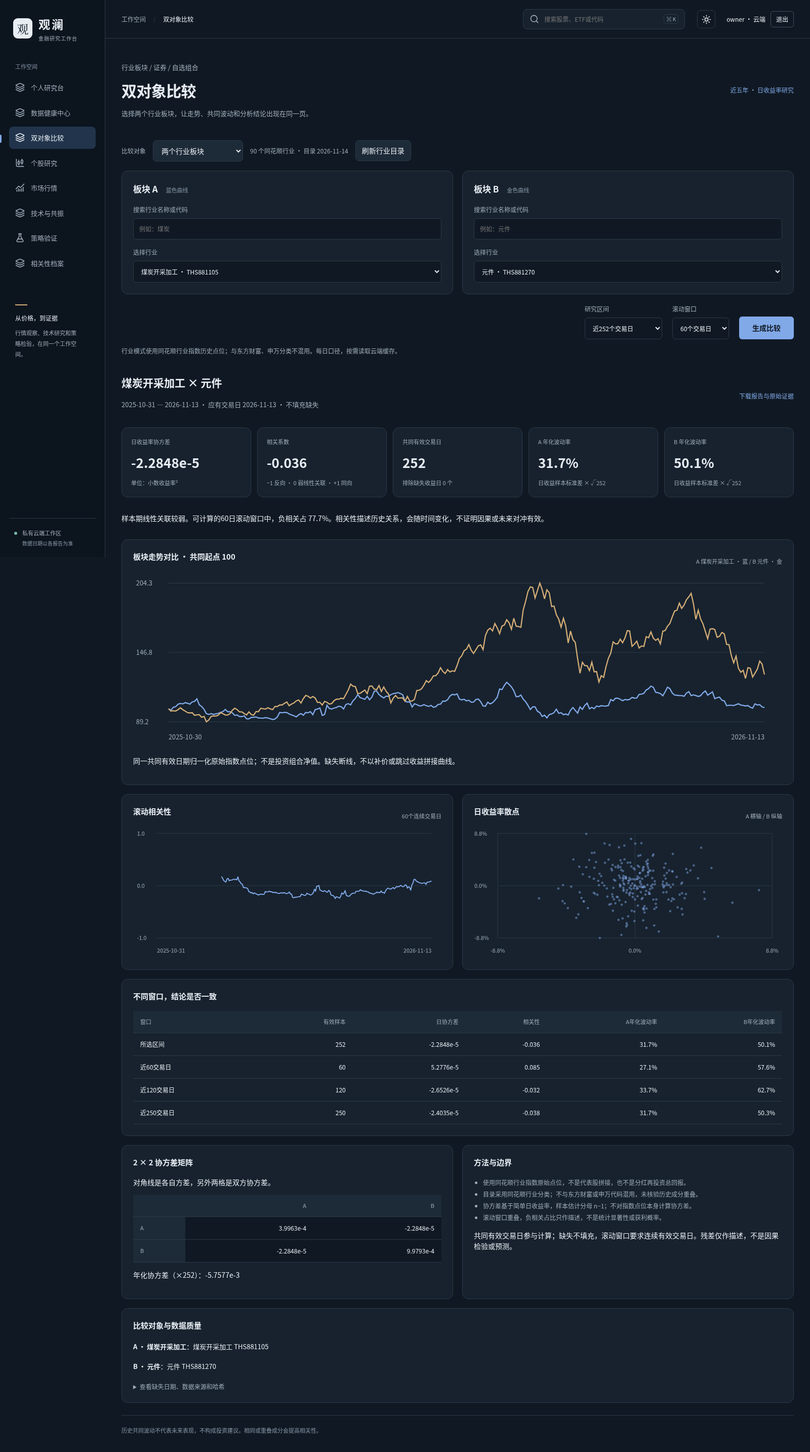
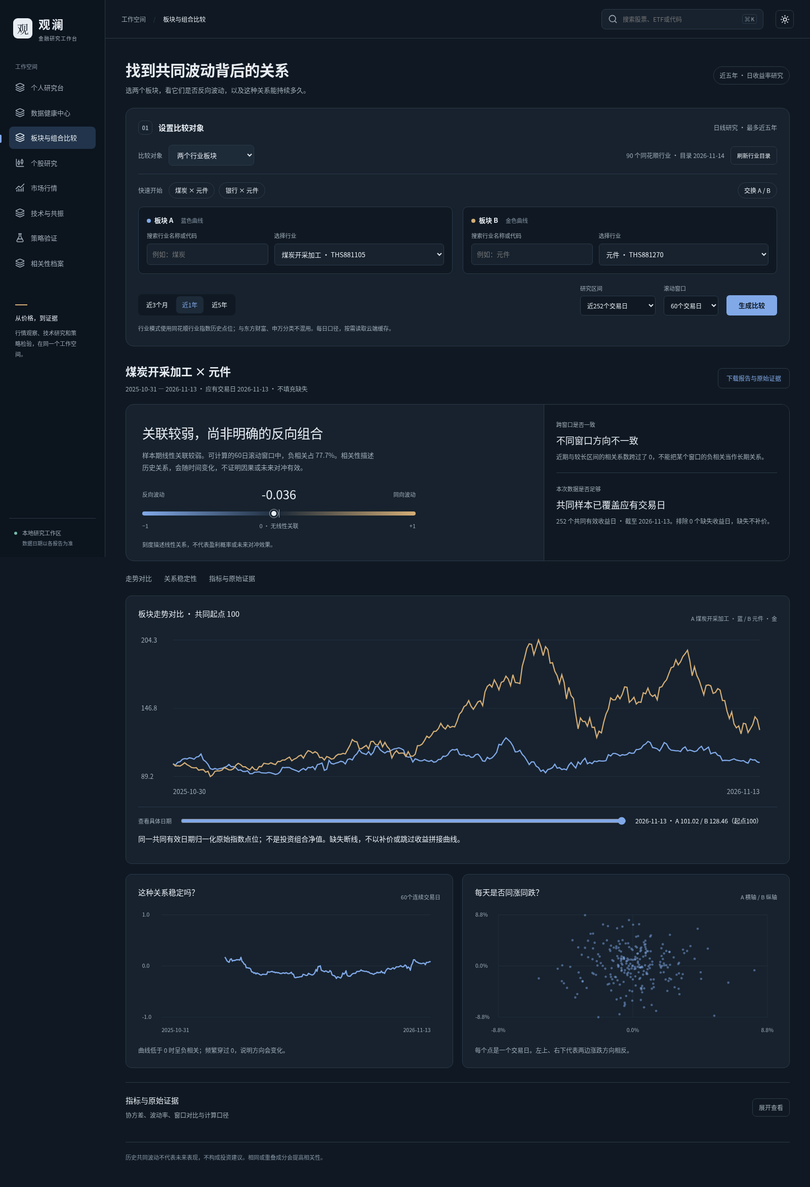
Redesign comparison workspace around conclusions and progressive evidence

diff --git a/app/static/compare/compare.js b/app/static/compare/compare.js
@@ -3,17 +3,25 @@ for(const side of ['left','right']){const el=document.createElement('section');e
 const draw=()=>{$(side+'-members').innerHTML=groups[side].map((x,i)=>`<button type="button" data-remove="${i}" aria-label="移除${esc(x.name)}">${esc(x.name)}<small>${esc(x.symbol)} ×</small></button>`).join('')||'<span class="subtle">尚未选择证券</span>';};$(side+'-members').onclick=e=>{const b=e.target.closest('[data-remove]');if(!b||busy)return;groups[side].splice(Number(b.dataset.remove),1);if($(side+'-mode').value!=='single'){$(side+'-mode').value='custom';$(side+'-name').value='';}draw();};$(side+'-mode').onchange=()=>{const preset=presets.find(p=>p.id===$(side+'-mode').value);groups[side]=preset?[...preset.members]:[];$(side+'-name').value=preset?preset.name:'';draw();};let timer,seq=0;$(side+'-query').oninput=()=>{clearTimeout(timer);const generation=++seq;const query=$(side+'-query').value.trim();if(!query){$(side+'-results').hidden=true;return;}timer=setTimeout(async()=>{try{const d=await api('/api/securities/search?q='+encodeURIComponent(query)+'&limit=8');if(generation!==seq)return;const box=$(side+'-results');box.replaceChildren();box.hidden=false;for(const x of d.items){const button=document.createElement('button');button.type='button';button.innerHTML=`<span>${esc(x.name)}</span><small>${esc(x.symbol)}</small>`;button.onclick=()=>{if(busy)return;if($(side+'-mode').value==='single'){groups[side]=[x];$(side+'-name').value=x.name;}else{if(groups[side].length>=10){message('每组最多10只证券');return;}if(!groups[side].some(y=>y.symbol===x.symbol))groups[side].push(x);if(['coal','components'].includes($(side+'-mode').value)){$(side+'-mode').value='custom';$(side+'-name').value='';}}$(side+'-query').value='';box.hidden=true;draw();};box.append(button);}if(!d.items.length)box.textContent='未找到证券';}catch(e){message(e.message);}},220);};$(side+'-query').onkeydown=e=>{if(e.key==='Escape')$(side+'-results').hidden=true;if(e.key==='ArrowDown'){$(side+'-results').querySelector('button')?.focus();e.preventDefault();}if(e.key==='Enter'){e.preventDefault();$(side+'-results').querySelector('button')?.click();}};draw();}
 
 const industryMode=()=>$('comparison-kind').value==='industry';
-function invalidate(){ $('compare-report').hidden=true; }
+function invalidate(){ $('compare-report').hidden=true;$('compare-empty').hidden=false; }
 function drawIndustries(side,preferred){const query=$('industry-'+side+'-query').value.trim().toLowerCase(),select=$('industry-'+side),previous=preferred||select.value;const list=industries.filter(x=>x.name.toLowerCase().includes(query)||x.code.toLowerCase().includes(query));select.innerHTML=list.map(x=>`<option value="${esc(x.code)}">${esc(x.name)} · ${esc(x.code)}</option>`).join('');if(list.some(x=>x.code===previous))select.value=previous;}
 for(const side of ['left','right'])$('industry-'+side+'-query').oninput=()=>{drawIndustries(side);invalidate();};
-$('comparison-kind').onchange=()=>{const on=industryMode();$('compare-run').disabled=on&&!industries.length;$('industry-selectors').hidden=!on;$('selectors').hidden=on;for(const side of ['left','right'])$('industry-'+side).required=on;$('selection-note').textContent=on?'行业模式使用同花顺行业指数历史点位；与东方财富、申万分类不混用。每日口径，按需读取云端缓存。':'单只证券或每组最多10只，组合固定等权。煤炭/元件代表股预设不是行业指数，请切换行业模式比较真实板块。';invalidate();};
+$('comparison-kind').onchange=()=>{const on=industryMode();$('quick-pairs').hidden=!on;$('compare-run').disabled=on&&!industries.length;$('industry-selectors').hidden=!on;$('selectors').hidden=on;for(const side of ['left','right'])$('industry-'+side).required=on;$('selection-note').textContent=on?'行业模式使用同花顺行业指数历史点位；与东方财富、申万分类不混用。每日口径，按需读取云端缓存。':'单只证券或每组最多10只，组合固定等权。煤炭/元件代表股预设不是行业指数，请切换行业模式比较真实板块。';invalidate();};
 $('compare-form').addEventListener('change',invalidate);
 async function loadIndustries(){if(catalogLoading)return;catalogLoading=true;$('industry-reload').disabled=true;if(industryMode())$('compare-run').disabled=true;try{const d=await api('/api/comparison/industries');industries=d.items;drawIndustries('left',$('industry-left').value||'THS881105');drawIndustries('right',$('industry-right').value||'THS881270');$('industry-catalog-note').textContent=`${d.total} 个同花顺行业 · 目录 ${d.date}${d.stale?' · 刷新失败，使用旧目录':''}`;message('');}catch(e){$('industry-catalog-note').textContent='行业目录暂不可用';message(e.message+'。可点击「刷新行业目录」重试，或切换「股票 / ETF / 自选组合」继续已有研究。');}finally{catalogLoading=false;$('industry-reload').disabled=false;$('compare-run').disabled=industryMode()&&!industries.length;}}$('industry-reload').onclick=loadIndustries;loadIndustries();
 
 function normalizedPlot(r){const points=r.normalized||[];$('normalized-panel').hidden=!points.length;if(!points.length)return;const values=points.flatMap(p=>[p.a,p.b]).filter(v=>v!=null);let min=Math.min(...values),max=Math.max(...values);if(max===min){max+=1;min-=1;}const w=1100,h=300,left=60,right=1070,top=20,bottom=255,x=i=>left+i/Math.max(1,points.length-1)*(right-left),y=v=>top+(max-v)/(max-min)*(bottom-top);let paths='';for(const [key,color] of [['a','var(--ui-accent)'],['b','var(--ui-gold)']]){let d='',active=false;points.forEach((p,i)=>{if(p[key]==null){active=false;return;}d+=(active?'L':'M')+x(i).toFixed(2)+','+y(p[key]).toFixed(2);active=true;});paths+=`<path d="${d}" fill="none" stroke="${color}" stroke-width="2"/>`;}$('normalized-legend').textContent=`A ${r.selection.left.name} · 蓝 / B ${r.selection.right.name} · 金`;$('normalized-chart').innerHTML=`<svg viewBox="0 0 ${w} ${h}" role="img" aria-label="两板块同起点指数走势">${[min,(min+max)/2,max].map(v=>`<line class="grid" x1="${left}" x2="${right}" y1="${y(v)}" y2="${y(v)}"/><text x="5" y="${y(v)+4}">${v.toFixed(1)}</text>`).join('')}${paths}<text x="${left}" y="285">${esc(points[0].date)}</text><text x="${right}" y="285" text-anchor="end">${esc(points.at(-1).date)}</text></svg>`;}
 
 function plots(r){const w=620,h=265,left=48,right=600,top=15,bottom=225;let path='',active=false;const points=r.rolling;points.forEach((p,i)=>{if(p.value==null){active=false;return;}const x=left+i/Math.max(1,points.length-1)*(right-left),y=top+(1-p.value)/2*(bottom-top);path+=(active?'L':'M')+x.toFixed(2)+','+y.toFixed(2);active=true;});$('rolling-chart').innerHTML=`<svg viewBox="0 0 ${w} ${h}" role="img" aria-label="滚动相关性曲线">${[-1,0,1].map(v=>{const y=top+(1-v)/2*(bottom-top);return `<line class="grid" x1="${left}" y1="${y}" x2="${right}" y2="${y}"/><text x="8" y="${y+4}">${v.toFixed(1)}</text>`;}).join('')}<path class="series" d="${path}"/><text x="${left}" y="255">${esc(points[0]?.date||'')}</text><text x="${right}" y="255" text-anchor="end">${esc(points.at(-1)?.date||'')}</text>${path?'':'<text x="130" y="120">连续有效样本不足，暂不绘制滚动曲线</text>'}</svg>`;const data=r.observations.filter(x=>x.a!=null&&x.b!=null),bound=Math.max(.01,...data.flatMap(p=>[Math.abs(p.a),Math.abs(p.b)])),px=v=>left+(v/bound+1)/2*(right-left),py=v=>top+(1-v/bound)/2*(bottom-top);$('scatter-chart').innerHTML=`<svg viewBox="0 0 ${w} ${h}" role="img" aria-label="两组日收益率散点">${[-bound,0,bound].map(v=>`<line class="grid" x1="${px(v)}" y1="${top}" x2="${px(v)}" y2="${bottom}"/><line class="grid" x1="${left}" y1="${py(v)}" x2="${right}" y2="${py(v)}"/><text x="${px(v)}" y="255" text-anchor="middle">${(v*100).toFixed(1)}%</text><text x="1" y="${py(v)+4}">${(v*100).toFixed(1)}%</text>`).join('')}${data.map(p=>`<circle cx="${px(p.a)}" cy="${py(p.b)}" r="2.4"><title>${esc(p.date)} A ${(p.a*100).toFixed(2)}% / B ${(p.b*100).toFixed(2)}%</title></circle>`).join('')}</svg>`;}
-function render(data){report=data;const r=data.result,m=r.metrics;$('compare-report').hidden=false;$('compare-report').classList.toggle('industry-report',r.selection.kind==='industry');$('residual-metric').hidden=r.selection.kind==='industry';$('vol-a').textContent=nf(m.volatility_a*100,1)+'%';$('vol-b').textContent=nf(m.volatility_b*100,1)+'%';normalizedPlot(r);$('report-title').textContent=r.selection.left.name+' × '+r.selection.right.name;$('report-range').textContent=`${m.start} — ${m.end} · 应有交易日 ${r.expected_end} · 不填充缺失`;$('report-download').href='/api/comparison/reports/'+data.id+'/download';$('cov-value').textContent=cov(m.covariance);$('corr-value').textContent=nf(m.correlation);$('residual-value').textContent=nf(m.residual_correlation);$('sample-value').textContent=m.n;$('excluded-value').textContent=`排除缺失收益日 ${r.missing.length} 个`;$('interpretation').textContent=r.interpretation;$('rolling-note').textContent=r.selection.rolling+'个连续交易日';plots(r);$('window-table').innerHTML=[{window:'所选区间',...m},...r.windows].map(x=>`<tr><td>${typeof x.window==='number'?'近'+x.window+'交易日':esc(x.window)}</td><td>${x.n}</td><td>${cov(x.covariance)}</td><td>${nf(x.correlation)}</td><td>${nf(x.residual_correlation)}</td><td>${nf(x.volatility_a*100,1)}%</td><td>${nf(x.volatility_b*100,1)}%</td></tr>`).join('');$('cov-matrix').innerHTML=`<tr><th></th><th>A</th><th>B</th></tr><tr><th>A</th><td>${cov(m.variance_a)}</td><td>${cov(m.covariance)}</td></tr><tr><th>B</th><td>${cov(m.covariance)}</td><td>${cov(m.variance_b)}</td></tr>`;$('annualized-note').textContent='年化协方差（×252）：'+cov(m.annualized_covariance);$('warnings').innerHTML=r.warnings.map(x=>`<li>${esc(x)}</li>`).join('');$('members-summary').innerHTML=['left','right'].map((side,i)=>`<p><b>${i?'B':'A'} · ${esc(r.selection[side].name)}</b>：${r.selection[side].symbols.map(s=>esc(r.quality.find(x=>x.symbol===s)?.name||s)+' '+esc(s)).join(' / ')}</p>`).join('');$('quality-detail').textContent=JSON.stringify({source:r.adjustment,fetched_at:r.source_fetched_at,data_hash:r.data_hash,securities:r.quality,missing:r.missing},null,2);}
-$('compare-form').onsubmit=async e=>{e.preventDefault();if(busy)return;if(!industryMode()&&(!groups.left.length||!groups.right.length)){message('请先为A和B分别选择至少一只证券');return;}busy=true;$('compare-report').hidden=true;document.querySelectorAll('#compare-form input,#compare-form select,#compare-form button').forEach(x=>x.disabled=true);message('正在读取并校验历史日线、对齐交易日…首次生成可能需要一些时间。');try{const body=industryMode()?{left:$('industry-left').value,right:$('industry-right').value,lookback:Number($('lookback').value),rolling:Number($('rolling').value)}:{left:{name:$('left-name').value,symbols:groups.left.map(x=>x.symbol)},right:{name:$('right-name').value,symbols:groups.right.map(x=>x.symbol)},lookback:Number($('lookback').value),rolling:Number($('rolling').value)};render(await api(industryMode()?'/api/comparison/industries/run':'/api/comparison/run',{method:'POST',headers:{'Content-Type':'application/json','x-workbench-action':'local-refresh'},body:JSON.stringify(body)}));message('');}catch(e){message(e.message);}finally{busy=false;document.querySelectorAll('#compare-form input,#compare-form select,#compare-form button').forEach(x=>x.disabled=false);}};
+function render(data){report=data;const r=data.result,m=r.metrics;verdict(r);$('compare-report').hidden=false;$('compare-report').classList.toggle('industry-report',r.selection.kind==='industry');$('residual-metric').hidden=r.selection.kind==='industry';$('vol-a').textContent=nf(m.volatility_a*100,1)+'%';$('vol-b').textContent=nf(m.volatility_b*100,1)+'%';normalizedPlot(r);inspectChart(r);$('report-title').textContent=r.selection.left.name+' × '+r.selection.right.name;$('report-range').textContent=`${m.start} — ${m.end} · 应有交易日 ${r.expected_end} · 不填充缺失`;$('report-download').href='/api/comparison/reports/'+data.id+'/download';$('cov-value').textContent=cov(m.covariance);$('corr-value').textContent=nf(m.correlation);$('residual-value').textContent=nf(m.residual_correlation);$('sample-value').textContent=m.n;$('excluded-value').textContent=`排除缺失收益日 ${r.missing.length} 个`;$('interpretation').textContent=r.interpretation;$('rolling-note').textContent=r.selection.rolling+'个连续交易日';plots(r);$('window-table').innerHTML=[{window:'所选区间',...m},...r.windows].map(x=>`<tr><td>${typeof x.window==='number'?'近'+x.window+'交易日':esc(x.window)}</td><td>${x.n}</td><td>${cov(x.covariance)}</td><td>${nf(x.correlation)}</td><td>${nf(x.residual_correlation)}</td><td>${nf(x.volatility_a*100,1)}%</td><td>${nf(x.volatility_b*100,1)}%</td></tr>`).join('');$('cov-matrix').innerHTML=`<tr><th></th><th>A</th><th>B</th></tr><tr><th>A</th><td>${cov(m.variance_a)}</td><td>${cov(m.covariance)}</td></tr><tr><th>B</th><td>${cov(m.covariance)}</td><td>${cov(m.variance_b)}</td></tr>`;$('annualized-note').textContent='年化协方差（×252）：'+cov(m.annualized_covariance);$('warnings').innerHTML=r.warnings.map(x=>`<li>${esc(x)}</li>`).join('');$('members-summary').innerHTML=['left','right'].map((side,i)=>`<p><b>${i?'B':'A'} · ${esc(r.selection[side].name)}</b>：${r.selection[side].symbols.map(s=>esc(r.quality.find(x=>x.symbol===s)?.name||s)+' '+esc(s)).join(' / ')}</p>`).join('');$('quality-detail').textContent=JSON.stringify({source:r.adjustment,fetched_at:r.source_fetched_at,data_hash:r.data_hash,securities:r.quality,missing:r.missing},null,2);}
+$('compare-form').onsubmit=async e=>{e.preventDefault();if(busy)return;if(!industryMode()&&(!groups.left.length||!groups.right.length)){message('请先为A和B分别选择至少一只证券');return;}busy=true;$('compare-message').dataset.busy='true';$('compare-form').setAttribute('aria-busy','true');$('compare-run').textContent='正在分析…';$('compare-empty').hidden=true;$('compare-report').hidden=true;document.querySelectorAll('#compare-form input,#compare-form select,#compare-form button').forEach(x=>x.disabled=true);message('正在读取并校验历史日线、对齐交易日…首次生成可能需要一些时间。');try{const body=industryMode()?{left:$('industry-left').value,right:$('industry-right').value,lookback:Number($('lookback').value),rolling:Number($('rolling').value)}:{left:{name:$('left-name').value,symbols:groups.left.map(x=>x.symbol)},right:{name:$('right-name').value,symbols:groups.right.map(x=>x.symbol)},lookback:Number($('lookback').value),rolling:Number($('rolling').value)};render(await api(industryMode()?'/api/comparison/industries/run':'/api/comparison/run',{method:'POST',headers:{'Content-Type':'application/json','x-workbench-action':'local-refresh'},body:JSON.stringify(body)}));message('');}catch(e){message(e.message);$('compare-empty').hidden=false;}finally{busy=false;$('compare-message').dataset.busy='false';$('compare-form').setAttribute('aria-busy','false');$('compare-run').textContent='生成比较';document.querySelectorAll('#compare-form input,#compare-form select,#compare-form button').forEach(x=>x.disabled=false);}};
 api('/api/comparison/presets').then(d=>{presets=d.items;for(const [side,id]of [['left','coal'],['right','components']]){$(side+'-mode').value=id;$(side+'-mode').dispatchEvent(new Event('change'));}}).catch(e=>message(e.message));document.addEventListener('click',e=>{if(!e.target.closest('.search-wrap'))document.querySelectorAll('.search-results').forEach(x=>x.hidden=true);});
+document.querySelector('a[href="#evidence-details"]').onclick=()=>{$('evidence-details').open=true;};
+function syncWindowButtons(){document.querySelectorAll('[data-window]').forEach(b=>b.setAttribute('aria-pressed',String(b.dataset.window===$('lookback').value)));}
+document.querySelectorAll('[data-window]').forEach(b=>b.onclick=()=>{$('lookback').value=b.dataset.window;syncWindowButtons();invalidate();});$('lookback').addEventListener('change',syncWindowButtons);
+document.querySelectorAll('[data-pair]').forEach(b=>b.onclick=()=>{const a=industries.find(x=>b.dataset.pair==='bank'?x.name==='银行':x.code==='THS881105'),c=industries.find(x=>x.code==='THS881270');if(!a||!c){message('目录尚未就绪，请刷新行业目录后重试');return;}for(const [side,item]of [['left',a],['right',c]]){$('industry-'+side+'-query').value='';drawIndustries(side,item.code);}invalidate();});
+$('swap-industries').onclick=()=>{const a=$('industry-left').value,b=$('industry-right').value;for(const side of ['left','right'])$('industry-'+side+'-query').value='';drawIndustries('left',b);drawIndustries('right',a);invalidate();};
+function verdict(r){const m=r.metrics,c=m.correlation,same=JSON.stringify(r.selection.left.symbols)===JSON.stringify(r.selection.right.symbols);$('verdict-title').textContent=same?'同一对象，不构成分散证据':c==null?'样本无法判断线性关系':c<-.3?'本段历史中，整体反向波动':c<.3?'关联较弱，尚非明确的反向组合':'本段历史中，整体同向波动';$('relation-number').textContent=c==null?'不可定义':c.toFixed(3);$('relation-marker').hidden=c==null;$('relation-marker').style.left=((Math.max(-1,Math.min(1,c??0))+1)*50)+'%';const correlations=[c,...r.windows.map(x=>x.correlation)].filter(x=>x!=null),flip=correlations.some(x=>x<0)&&correlations.some(x=>x>0);$('stability-title').textContent=same?'两边相同，无独立比较意义':correlations.length<2?'窗口不足，暂不判断':flip?'不同窗口方向不一致':correlations.every(x=>x<0)?'已展示窗口均为负相关':'未形成一致负相关';$('stability-detail').textContent=flip?'近期与较长区间的相关系数跨过了 0，不能把某个窗口的负相关当作长期关系。':'窗口相互重叠，不是独立检验；历史方向一致也不保证未来持续。';const stale=m.end!==r.expected_end,refresh=r.warnings.some(x=>/失败|旧目录/.test(x));$('quality-title').textContent=stale?'数据日期落后，需关注':refresh?'使用缓存，刷新需关注':r.missing.length?'存在缺失，已剔除':'共同样本已覆盖应有交易日';$('quality-summary').textContent=`${m.n} 个共同有效收益日 · 截至 ${m.end}。排除 ${r.missing.length} 个缺失收益日，缺失不补价。`;$('compare-empty').hidden=true;}
+function inspectChart(r){const points=r.normalized||[];if(!points.length)return;const slider=$('chart-date');slider.max=points.length-1;slider.value=points.length-1;const show=()=>{const p=points[Number(slider.value)];$('chart-readout').textContent=`${p.date}  ·  A ${p.a==null?'缺失':p.a.toFixed(2)}  /  B ${p.b==null?'缺失':p.b.toFixed(2)}（起点100）`;slider.setAttribute('aria-valuetext',$('chart-readout').textContent);const svg=$('normalized-chart').querySelector('svg');let line=svg.querySelector('.date-cursor');if(!line){line=document.createElementNS('http://www.w3.org/2000/svg','line');line.classList.add('date-cursor');line.setAttribute('y1','20');line.setAttribute('y2','255');line.setAttribute('stroke','var(--ui-muted)');line.setAttribute('stroke-dasharray','4 4');svg.append(line);}const x=60+Number(slider.value)/Math.max(1,points.length-1)*1010;line.setAttribute('x1',x);line.setAttribute('x2',x);};slider.oninput=show;show();$('normalized-chart').onpointermove=e=>{const svg=$('normalized-chart').querySelector('svg'),rect=svg.getBoundingClientRect();const x=(e.clientX-rect.left)/rect.width*1100;slider.value=Math.round(Math.max(0,Math.min(1,(x-60)/1010))*(points.length-1));show();};}
+
 })();

diff --git a/app/static/compare/compare.css b/app/static/compare/compare.css
@@ -1,2 +1,8 @@
 .compare-workspace{padding:108px 32px 36px;margin-left:208px;max-width:1700px;color:var(--ui-text)}.compare-heading,.report-heading,.run-bar,.section-title{display:flex;justify-content:space-between;align-items:center;gap:20px}.compare-heading{margin-bottom:28px}.compare-heading h1{font-size:30px;margin:6px 0 12px}.compare-heading p,.report-heading p,footer{color:var(--ui-muted);font-size:13px;line-height:1.8}.scope-tag{font-size:12px;color:var(--ui-accent);white-space:nowrap}.selection-grid,.chart-grid{display:grid;grid-template-columns:1fr 1fr;gap:18px}.selector,.compare-panel,.metric-grid article{background:var(--ui-panel);border:1px solid var(--ui-border);border-radius:12px;padding:22px}.selector h2{font-size:17px;margin:0 0 20px}.selector label{display:block;font-size:12px;color:var(--ui-muted);margin-top:16px}.selector input,.selector select,.run-bar select{display:block;width:100%;margin-top:8px;background:var(--ui-bg);color:var(--ui-text);border:1px solid var(--ui-border);border-radius:6px;padding:11px;font:inherit;min-width:0}.search-wrap{position:relative}.search-results{position:absolute;z-index:8;top:100%;width:100%;background:var(--ui-panel);border:1px solid var(--ui-border);box-shadow:0 14px 30px #0005;max-height:260px;overflow:auto}.search-results button{display:flex;justify-content:space-between;width:100%;border:0;border-radius:0;background:transparent;color:var(--ui-text);padding:12px;cursor:pointer}.search-results button:hover{background:var(--ui-bg)}.members{display:flex;flex-wrap:wrap;gap:8px;margin-top:18px;min-height:36px}.members button{background:var(--ui-bg);color:var(--ui-text);border:1px solid var(--ui-border);border-radius:5px;padding:7px 9px;cursor:pointer;font-size:12px}.members small{color:var(--ui-muted);margin-left:5px}.run-bar{justify-content:flex-end;margin-top:20px;align-items:flex-end}.run-bar label{font-size:12px;color:var(--ui-muted)}#compare-run{background:var(--ui-accent);color:var(--ui-bg);padding:12px 26px;border:0;border-radius:6px;cursor:pointer;font-weight:600}button:disabled{opacity:.5;cursor:wait}.form-note{font-size:12px;line-height:1.8;color:var(--ui-muted)}#compare-message{padding:16px;border:1px solid var(--ui-gold);border-radius:8px;color:var(--ui-gold);margin:24px 0;font-size:13px}.report-heading{margin:36px 0 20px}.report-heading h2{font-size:21px}.report-heading a{color:var(--ui-accent);font-size:12px}.metric-grid{display:grid;grid-template-columns:repeat(4,1fr);gap:12px}.metric-grid article{padding:18px}.metric-grid span,.metric-grid small{display:block;color:var(--ui-muted);font-size:11px;line-height:1.7}.metric-grid strong{display:block;font-size:26px;font-variant-numeric:tabular-nums;margin:12px 0}.interpretation{line-height:1.9;font-size:14px;padding:14px 0}.compare-panel{margin-bottom:18px;min-width:0}.compare-panel h3{font-size:15px;margin:0 0 18px}.section-title span{font-size:11px;color:var(--ui-muted)}.plot svg{width:100%;height:auto;display:block}.plot text{fill:var(--ui-muted);font-size:11px}.plot .grid{stroke:var(--ui-border)}.plot .series{stroke:var(--ui-accent);fill:none;stroke-width:2}.plot circle{fill:var(--ui-accent);opacity:.48}.table-scroll{overflow:auto}table{width:100%;border-collapse:collapse;font-variant-numeric:tabular-nums}th,td{text-align:right;padding:12px 10px;border-bottom:1px solid var(--ui-border);font-size:12px;white-space:nowrap}th{font-weight:400;color:var(--ui-muted)}th:first-child,td:first-child{text-align:left}#cov-matrix td{background:var(--ui-bg)}#warnings{padding-left:18px;font-size:12px;line-height:1.9;color:var(--ui-muted)}#members-summary{font-size:13px;line-height:2}details{font-size:12px;color:var(--ui-muted);margin-top:18px}pre{white-space:pre-wrap;overflow-wrap:anywhere;max-height:350px;overflow:auto}footer{margin-top:28px}input:focus-visible,button:focus-visible,select:focus-visible{outline:2px solid var(--ui-accent);outline-offset:3px}@media(max-width:1150px){.compare-workspace{margin-left:176px;padding-left:20px;padding-right:20px}.metric-grid{grid-template-columns:1fr 1fr}}@media(max-width:760px){.compare-workspace{margin-left:0;padding:88px 16px 24px}.selection-grid,.chart-grid{grid-template-columns:1fr}.compare-heading,.report-heading{align-items:flex-start;flex-direction:column;gap:6px}.run-bar{flex-wrap:wrap;justify-content:stretch}.run-bar label{flex:1;min-width:130px}#compare-run{width:100%}.selector,.compare-panel{padding:18px}.metric-grid strong{font-size:21px}.metric-grid article{padding:13px}.scope-tag{white-space:normal}}
 [hidden]{display:none!important}.comparison-mode{display:flex;align-items:center;gap:14px;margin-bottom:18px;flex-wrap:wrap}.comparison-mode label,.comparison-mode span{font-size:12px;color:var(--ui-muted)}.selector h2 small{font-size:11px;color:var(--ui-subtle);font-weight:400;margin-left:12px}.industry-report .table-scroll th:nth-child(5),.industry-report .table-scroll td:nth-child(5){display:none}.metric-grid{grid-template-columns:repeat(auto-fit,minmax(165px,1fr))}#normalized-panel .section-title{flex-wrap:wrap}.plot .series{stroke-linejoin:round}@media(max-width:760px){.metric-grid{grid-template-columns:1fr 1fr}.comparison-mode{align-items:flex-start}.comparison-mode span{width:100%}}
+/* Correlation lab: decision first, calculation evidence on demand. */
+.terminal-app .compare-workspace{max-width:1440px;margin-top:76px;padding:32px 40px 48px;font-size:14px}.compare-heading{margin-bottom:24px}.compare-heading h1{font-size:30px;letter-spacing:-.02em;font-weight:600;margin:8px 0}.compare-heading p{margin:0}.eyebrow{font-size:11px!important;letter-spacing:.12em;color:var(--ui-muted);font-weight:600}.scope-tag{border:1px solid var(--ui-border);border-radius:24px;padding:8px 12px;color:var(--ui-muted)}#compare-form{background:var(--ui-panel);border:1px solid var(--ui-border);border-radius:16px;padding:24px}.form-heading{display:flex;justify-content:space-between;align-items:center;margin-bottom:20px}.form-heading b{display:flex;align-items:center;gap:12px;font-size:15px}.form-heading>span{color:var(--ui-muted);font-size:12px}.step-number{display:inline-grid;place-items:center;width:28px;height:28px;border:1px solid var(--ui-border);border-radius:8px;color:var(--ui-muted);font-size:11px}.comparison-mode{padding-bottom:16px;border-bottom:1px solid var(--ui-border);gap:12px;margin-bottom:16px}.comparison-mode select{font-size:13px}.comparison-mode span{margin-left:auto}.comparison-mode button{font-size:11px;background:transparent}.quick-pairs{display:flex;gap:8px;align-items:center;margin-bottom:16px;flex-wrap:wrap}.quick-pairs>span{font-size:12px;color:var(--ui-muted);margin-right:4px}.quick-pairs button{font-size:12px;padding:6px 12px;border-radius:20px;background:transparent}#swap-industries{margin-left:auto}.selection-grid{gap:20px}.selector{background:var(--ui-bg);border:1px solid var(--ui-border);padding:16px;border-radius:10px}.selector h2{margin:0 0 12px;font-size:13px}.asset-dot{display:inline-block;width:8px;height:8px;border-radius:50%;margin-right:4px}.asset-dot.a{background:var(--ui-accent)}.asset-dot.b{background:var(--ui-gold)}#industry-selectors .selector{display:grid;grid-template-columns:minmax(0,1fr) minmax(0,1.4fr);gap:0 12px}#industry-selectors h2{grid-column:1/-1}.selector label{margin-top:0;font-size:11px}.selector input,.selector select{background:var(--ui-panel);padding:10px;font-size:13px}.run-bar{gap:16px;margin-top:20px}.run-bar label{font-size:11px}.run-bar select{font-size:12px;padding:9px;margin-top:6px}.window-shortcuts{display:flex;gap:4px;margin-right:auto;align-self:flex-end;padding:4px;background:var(--ui-bg);border-radius:8px}.window-shortcuts button{border:0;background:transparent;font-size:12px;padding:8px 12px}.window-shortcuts button[aria-pressed=true]{background:var(--ui-panel-2);color:var(--ui-accent)}#compare-run{color:#101923;background:var(--ui-accent);font-size:13px;min-height:40px;padding:10px 24px}.form-note{font-size:11px;margin:16px 0 0}.empty-state{display:flex;gap:20px;padding:40px 32px;margin-top:24px;border:1px dashed var(--ui-border);border-radius:16px}.empty-state h2{font-size:20px;margin:0 0 12px;font-weight:500}.empty-state p{font-size:13px;color:var(--ui-muted);max-width:65ch;line-height:1.8}.empty-steps{display:flex;gap:24px;color:var(--ui-muted);font-size:11px;margin-top:24px}.report-heading{margin:32px 0 20px}.report-heading h2{margin:0 0 8px;font-size:22px}.report-heading p{margin:0;font-size:12px}.report-heading a{padding:10px 16px;border:1px solid var(--ui-border);border-radius:8px;white-space:nowrap}.research-verdict{display:grid;grid-template-columns:minmax(0,1.7fr) minmax(240px,1fr);background:var(--ui-panel);border:1px solid var(--ui-border);border-radius:16px;overflow:hidden}.verdict-primary{padding:24px 32px}.verdict-primary h2{font-size:26px;font-weight:500;letter-spacing:-.02em;margin:12px 0}.interpretation{font-size:13px;line-height:1.8;padding:0;max-width:65ch;color:var(--ui-muted);margin-bottom:24px}.relation-scale{max-width:540px}.scale-head,.scale-labels{display:flex;justify-content:space-between;align-items:center;font-size:11px;color:var(--ui-muted)}.scale-head strong{color:var(--ui-text);font-size:24px;font-weight:500;font-variant-numeric:tabular-nums}.scale-track{height:8px;background:linear-gradient(90deg,var(--ui-accent),var(--ui-panel-2) 50%,var(--ui-gold));position:relative;margin:16px 0 12px;border-radius:4px}.scale-track:after{content:'';position:absolute;height:16px;top:-4px;left:50%;border-left:1px solid var(--ui-muted)}.scale-track i{position:absolute;left:50%;top:-4px;width:16px;height:16px;transform:translateX(-50%);border:3px solid var(--ui-panel);background:var(--ui-text);border-radius:50%;z-index:1;box-shadow:0 0 0 1px var(--ui-muted)}.scale-caption{font-size:11px;color:var(--ui-muted);margin:20px 0 0}.verdict-evidence{border-left:1px solid var(--ui-border);padding:8px 24px;background:var(--ui-bg)}.verdict-evidence article{padding:20px 0}.verdict-evidence article+article{border-top:1px solid var(--ui-border)}.verdict-evidence span{font-size:11px;color:var(--ui-muted)}.verdict-evidence strong{display:block;font-weight:500;font-size:18px;margin:8px 0}.verdict-evidence p{font-size:12px;line-height:1.8;color:var(--ui-muted);margin:0}.report-jumps{display:flex;gap:24px;padding:24px 0;font-size:13px}.report-jumps a{color:var(--ui-muted)}.compare-panel{border-radius:12px;padding:24px;margin-bottom:20px}.section-title h3{font-size:15px;font-weight:500}.chart-help{font-size:12px;line-height:1.8;color:var(--ui-muted);margin:16px 0 0}.plot{position:relative;min-width:0}.plot .grid{opacity:.55}.plot .series{stroke-width:2.5}.chart-inspector{display:flex;align-items:center;gap:16px;padding-top:16px;margin-top:8px;border-top:1px solid var(--ui-border);flex-wrap:wrap;font-size:12px}.chart-inspector input{flex:1;min-width:100px;accent-color:var(--ui-accent);padding:0;cursor:pointer}.chart-inspector output{font-variant-numeric:tabular-nums;min-width:280px}.chart-inspector label{font-size:11px}.evidence-details{border-top:1px solid var(--ui-border);margin-top:8px;padding-top:4px}.evidence-details>summary{display:flex;justify-content:space-between;align-items:center;gap:12px;padding:20px 0;cursor:pointer;list-style:none}.evidence-details>summary b{display:block;font-size:15px;color:var(--ui-text);font-weight:500}.evidence-details>summary small{display:block;margin-top:8px;font-size:12px}.evidence-details>summary>span:last-child{border:1px solid var(--ui-border);border-radius:8px;padding:8px 12px;white-space:nowrap}.metric-grid{margin-bottom:24px}.metric-grid article{background:var(--ui-bg)}.metric-grid strong{font-size:22px;font-weight:500}.metric-grid span,.metric-grid small{font-size:12px}.compare-workspace [id]{scroll-margin-top:96px}#compare-message{background:var(--ui-panel);border-color:var(--ui-border);color:var(--ui-text);line-height:1.8}#compare-message[data-busy=true]{border-left:3px solid var(--ui-accent)}#compare-message[data-busy=true]:before{content:'';display:inline-block;width:12px;height:12px;border:2px solid var(--ui-border);border-top-color:var(--ui-accent);border-radius:50%;margin-right:12px;animation:research-spin .8s linear infinite}@keyframes research-spin{to{transform:rotate(360deg)}}
+@media(max-width:1150px){.terminal-app .compare-workspace{padding:24px; margin-top:76px}.run-bar{flex-wrap:wrap}.window-shortcuts{margin-right:auto}.research-verdict{grid-template-columns:minmax(0,1.4fr) minmax(220px,1fr)}.verdict-primary{padding:24px}#industry-selectors .selector{grid-template-columns:1fr}#industry-selectors label+label{margin-top:12px}.comparison-mode span{margin-left:0}}
+@media(max-width:760px){.terminal-app .compare-workspace{margin:64px 0 0;padding:24px 16px}.compare-heading h1{font-size:25px;max-width:13em}.scope-tag{display:none}#compare-form{padding:16px}.form-heading>span{display:none}.comparison-mode{gap:8px}.comparison-mode span{width:auto;flex:1;min-width:140px;font-size:11px}.comparison-mode>label{display:none}.quick-pairs{gap:8px}.quick-pairs>span{display:none}#swap-industries{margin-left:0}#industry-selectors{grid-template-columns:1fr 1fr;gap:8px}#industry-selectors .selector{padding:12px}#industry-selectors h2 small{display:none}#industry-selectors label{font-size:10px}#industry-selectors input,#industry-selectors select{font-size:12px;padding:8px}.run-bar{gap:12px}.window-shortcuts{width:100%;margin:0}.window-shortcuts button{flex:1}.run-bar label{min-width:110px}.form-note{line-height:1.7}.empty-state{padding:24px 16px;gap:12px}.empty-state h2{font-size:18px}.empty-steps{flex-wrap:wrap;gap:12px}.research-verdict{grid-template-columns:1fr}.verdict-primary{padding:24px 20px}.verdict-primary h2{font-size:23px}.verdict-evidence{border-left:0;border-top:1px solid var(--ui-border);padding:0 20px}.verdict-evidence strong{font-size:17px}.report-heading{gap:16px}.report-heading h2{font-size:20px}.report-heading a{font-size:12px}.report-jumps{gap:16px;font-size:12px;padding:20px 0;flex-wrap:wrap}.compare-panel{padding:16px}.chart-inspector{gap:12px}.chart-inspector output{min-width:0;width:100%;font-size:11px}.evidence-details>summary small{line-height:1.8}.metric-grid strong{font-size:20px}.plot text{font-size:13px}}
+:root[data-theme=light] #compare-run{color:#fff}:root[data-theme=light] .plot circle{opacity:.7}
+@media(max-width:760px){.plot text{font-size:20px}#normalized-chart text{font-size:26px}#normalized-chart text[x="5"]{font-size:22px}}

diff --git a/app/static/compare/index.html b/app/static/compare/index.html
@@ -1,7 +1,7 @@
-<!doctype html><html lang="zh-CN"><head><meta charset="utf-8"><meta name="viewport" content="width=device-width,initial-scale=1"><title>双对象比较 · 观澜</title><link rel="stylesheet" href="/static/shared/theme.css"><link rel="stylesheet" href="/static/compare/compare.css"><script defer src="/static/shared/shell.js"></script><script defer src="/static/compare/compare.js"></script></head><body><main class="compare-workspace"><section class="compare-heading"><div><p class="subtle">行业板块 / 证券 / 自选组合</p><h1>双对象比较</h1><p>选择两个行业板块，让走势、共同波动和分析结论出现在同一页。</p></div><span class="scope-tag">近五年 · 日收益率研究</span></section>
-<form id="compare-form"><div class="comparison-mode"><label for="comparison-kind">比较对象</label><select id="comparison-kind"><option value="industry">两个行业板块</option><option value="securities">股票 / ETF / 自选组合</option></select><span id="industry-catalog-note">正在读取行业目录…</span><button type="button" id="industry-reload">刷新行业目录</button></div><div class="selection-grid" id="industry-selectors"><section class="selector"><h2>板块 A <small>蓝色曲线</small></h2><label>搜索行业名称或代码<input id="industry-left-query" placeholder="例如：煤炭" autocomplete="off"></label><label>选择行业<select id="industry-left" aria-label="板块A" required></select></label></section><section class="selector"><h2>板块 B <small>金色曲线</small></h2><label>搜索行业名称或代码<input id="industry-right-query" placeholder="例如：元件" autocomplete="off"></label><label>选择行业<select id="industry-right" aria-label="板块B" required></select></label></section></div><div class="selection-grid" id="selectors" hidden></div><div class="run-bar"><label>研究区间<select id="lookback"><option value="0">近五年全部可用历史</option><option value="756">近756个交易日</option><option value="252" selected>近252个交易日</option><option value="126">近126个交易日</option><option value="60">近60个交易日</option></select></label><label>滚动窗口<select id="rolling"><option value="20">20个交易日</option><option value="60" selected>60个交易日</option><option value="120">120个交易日</option></select></label><button type="submit" id="compare-run">生成比较</button></div><p id="selection-note" class="form-note">行业模式使用同花顺行业指数历史点位；与东方财富、申万分类不混用。每日口径，按需读取云端缓存。</p></form>
-<div id="compare-message" role="status" hidden></div><section id="compare-report" hidden><div class="report-heading"><div><h2 id="report-title"></h2><p id="report-range"></p></div><a id="report-download">下载报告与原始证据</a></div><div class="metric-grid"><article><span>日收益率协方差</span><strong id="cov-value"></strong><small>单位：小数收益率²</small></article><article><span>相关系数</span><strong id="corr-value"></strong><small>−1 反向 · 0 弱线性关联 · +1 同向</small></article><article id="residual-metric"><span>剔除大盘后相关性</span><strong id="residual-value"></strong><small>沪深300ETF · 同期OLS残差</small></article><article><span>共同有效交易日</span><strong id="sample-value"></strong><small id="excluded-value"></small></article><article><span>A 年化波动率</span><strong id="vol-a"></strong><small>日收益样本标准差 × √252</small></article><article><span>B 年化波动率</span><strong id="vol-b"></strong><small>日收益样本标准差 × √252</small></article></div><p id="interpretation" class="interpretation"></p>
-<section id="normalized-panel" class="compare-panel" hidden><div class="section-title"><h3>板块走势对比 · 共同起点 100</h3><span id="normalized-legend"></span></div><div id="normalized-chart" class="plot"></div><p class="subtle">同一共同有效日期归一化原始指数点位；不是投资组合净值。缺失断线，不以补价或跳过收益拼接曲线。</p></section><div class="chart-grid"><section class="compare-panel"><div class="section-title"><h3>滚动相关性</h3><span id="rolling-note"></span></div><div id="rolling-chart" class="plot"></div></section><section class="compare-panel"><div class="section-title"><h3>日收益率散点</h3><span>A 横轴 / B 纵轴</span></div><div id="scatter-chart" class="plot"></div></section></div>
+<!doctype html><html lang="zh-CN"><head><meta charset="utf-8"><meta name="viewport" content="width=device-width,initial-scale=1"><title>板块与组合比较 · 观澜</title><link rel="stylesheet" href="/static/shared/theme.css"><link rel="stylesheet" href="/static/compare/compare.css?v=20261114b"><script defer src="/static/shared/shell.js"></script><script defer src="/static/compare/compare.js?v=20261114b"></script></head><body><main class="compare-workspace"><section class="compare-heading"><div><p class="eyebrow">关联研究 / CORRELATION LAB</p><h1>找到共同波动背后的关系</h1><p>选两个板块，看它们是否反向波动，以及不同时间窗口的结论是否一致。</p></div><span class="scope-tag">近五年 · 日收益率研究</span></section>
+<form id="compare-form"><div class="form-heading"><b><span class="step-number">01</span> 设置比较对象</b><span>日线研究 · 最多近五年</span></div><div class="comparison-mode"><label for="comparison-kind">比较对象</label><select id="comparison-kind"><option value="industry">两个行业板块</option><option value="securities">股票 / ETF / 自选组合</option></select><span id="industry-catalog-note">正在读取行业目录…</span><button type="button" id="industry-reload">刷新行业目录</button></div><div id="quick-pairs" class="quick-pairs"><span>快速开始</span><button type="button" data-pair="coal">煤炭 × 元件</button><button type="button" data-pair="bank">银行 × 元件</button><button type="button" id="swap-industries" aria-label="交换板块A与板块B">交换 A / B</button></div><div class="selection-grid" id="industry-selectors"><section class="selector"><h2><span class="asset-dot a"></span> 板块 A <small>蓝色曲线</small></h2><label>搜索行业名称或代码<input id="industry-left-query" placeholder="例如：煤炭" autocomplete="off"></label><label>选择行业<select id="industry-left" aria-label="板块A" required></select></label></section><section class="selector"><h2><span class="asset-dot b"></span> 板块 B <small>金色曲线</small></h2><label>搜索行业名称或代码<input id="industry-right-query" placeholder="例如：元件" autocomplete="off"></label><label>选择行业<select id="industry-right" aria-label="板块B" required></select></label></section></div><div class="selection-grid" id="selectors" hidden></div><div class="run-bar"><div class="window-shortcuts" role="group" aria-label="快捷研究区间"><button type="button" data-window="60">近3个月</button><button type="button" data-window="252" aria-pressed="true">近1年</button><button type="button" data-window="0">近5年</button></div><label>研究区间<select id="lookback"><option value="0">近五年全部可用历史</option><option value="756">近756个交易日</option><option value="252" selected>近252个交易日</option><option value="126">近126个交易日</option><option value="60">近60个交易日</option></select></label><label>滚动窗口<select id="rolling"><option value="20">20个交易日</option><option value="60" selected>60个交易日</option><option value="120">120个交易日</option></select></label><button type="submit" id="compare-run">生成比较</button></div><p id="selection-note" class="form-note">行业模式使用同花顺行业指数历史点位；与东方财富、申万分类不混用。每日口径，按需读取云端缓存。</p></form>
+<div id="compare-message" role="status" hidden></div><section id="compare-empty" class="empty-state"><span class="step-number">02</span><div><h2>这两个板块，能否分散波动？</h2><p>选择对象后点击「生成比较」。先看整体关系，再看不同时间窗口是否支持同一个结论。</p><div class="empty-steps"><span>01 选两个对象</span><span>02 对齐真实日线</span><span>03 查看结论与证据</span></div></div></section><section id="compare-report" hidden><div class="report-heading"><div><h2 id="report-title"></h2><p id="report-range"></p></div><a id="report-download">下载报告与原始证据</a></div><section class="research-verdict" aria-label="研究结论"><div class="verdict-primary"><p class="eyebrow">02 / 研究结论</p><h2 id="verdict-title"></h2><p id="interpretation" class="interpretation"></p><div class="relation-scale"><div class="scale-head"><span>反向波动</span><strong id="relation-number"></strong><span>同向波动</span></div><div class="scale-track"><i id="relation-marker"></i></div><div class="scale-labels"><span>−1</span><span>0 · 无线性关联</span><span>+1</span></div></div><p class="scale-caption">刻度描述线性关系，不代表盈利概率或未来对冲效果。</p></div><div class="verdict-evidence"><article><span>跨窗口是否一致</span><strong id="stability-title"></strong><p id="stability-detail"></p></article><article><span>本次数据是否足够</span><strong id="quality-title"></strong><p id="quality-summary"></p></article></div></section><nav class="report-jumps" aria-label="报告章节"><a href="#normalized-panel">走势对比</a><a href="#relationship-charts">关系稳定性</a><a href="#evidence-details">指标与原始证据</a></nav><section id="normalized-panel" class="compare-panel" hidden><div class="section-title"><h3>板块走势对比 · 共同起点 100</h3><span id="normalized-legend"></span></div><div id="normalized-chart" class="plot"></div><div class="chart-inspector"><label for="chart-date">查看具体日期</label><input type="range" id="chart-date" min="0" max="1" value="0"><output id="chart-readout" for="chart-date"></output></div><p class="subtle">同一共同有效日期归一化原始指数点位；不是投资组合净值。缺失断线，不以补价或跳过收益拼接曲线。</p></section><div class="chart-grid" id="relationship-charts"><section class="compare-panel"><div class="section-title"><h3>这种关系稳定吗？</h3><span id="rolling-note"></span></div><div id="rolling-chart" class="plot"></div><p class="chart-help">曲线低于 0 时呈负相关；频繁穿过 0，说明方向会变化。</p></section><section class="compare-panel"><div class="section-title"><h3>每天是否同涨同跌？</h3><span>A 横轴 / B 纵轴</span></div><div id="scatter-chart" class="plot"></div><p class="chart-help">每个点是一个交易日。左上、右下代表两边涨跌方向相反。</p></section></div>
+<details id="evidence-details" class="evidence-details"><summary><span><b>指标与原始证据</b><small>协方差、波动率、窗口对比与计算口径</small></span><span>展开查看</span></summary><div class="metric-grid"><article><span>日收益率协方差</span><strong id="cov-value"></strong><small>单位：小数收益率²</small></article><article><span>相关系数</span><strong id="corr-value"></strong><small>−1 反向 · 0 弱线性关联 · +1 同向</small></article><article id="residual-metric"><span>剔除大盘后相关性</span><strong id="residual-value"></strong><small>沪深300ETF · 同期OLS残差</small></article><article><span>共同有效交易日</span><strong id="sample-value"></strong><small id="excluded-value"></small></article><article><span>A 年化波动率</span><strong id="vol-a"></strong><small>日收益样本标准差 × √252</small></article><article><span>B 年化波动率</span><strong id="vol-b"></strong><small>日收益样本标准差 × √252</small></article></div>
 <section class="compare-panel"><h3>不同窗口，结论是否一致</h3><div class="table-scroll"><table><thead><tr><th>窗口</th><th>有效样本</th><th>日协方差</th><th>相关性</th><th>剔除大盘后</th><th>A年化波动率</th><th>B年化波动率</th></tr></thead><tbody id="window-table"></tbody></table></div></section>
 <div class="chart-grid"><section class="compare-panel"><h3>2 × 2 协方差矩阵</h3><p class="subtle">对角线是各自方差，另外两格是双方协方差。</p><table id="cov-matrix"></table><p id="annualized-note" class="subtle"></p></section><section class="compare-panel"><h3>方法与边界</h3><ul id="warnings"></ul><p class="subtle">共同有效交易日参与计算；缺失不填充，滚动窗口要求连续有效交易日。残差仅作描述，不是因果检验或预测。</p></section></div>
-<section class="compare-panel"><h3>比较对象与数据质量</h3><div id="members-summary"></div><details><summary>查看缺失日期、数据来源和哈希</summary><pre id="quality-detail"></pre></details></section></section><footer>历史共同波动不代表未来表现，不构成投资建议。相同或重叠成分会提高相关性。</footer></main></body></html>
+<section class="compare-panel"><h3>比较对象与数据质量</h3><div id="members-summary"></div><details><summary>查看缺失日期、数据来源和哈希</summary><pre id="quality-detail"></pre></details></section></details></section><footer>历史共同波动不代表未来表现，不构成投资建议。相同或重叠成分会提高相关性。</footer></main></body></html>

diff --git a/app/static/shared/shell.js b/app/static/shared/shell.js
@@ -1,8 +1,8 @@
 (()=>{'use strict';
-const root=document.documentElement;let saved='dark';try{saved=localStorage.getItem('guanlan-theme')||'dark';}catch{}root.dataset.theme=saved;
+const root=document.documentElement;let saved='light';try{saved=localStorage.getItem('guanlan-theme')||'light';}catch{}root.dataset.theme=saved;
 const icon=name=>`<i class="ui-icon" aria-hidden="true" style="--icon:url('/static/vendor/lucide/${name}.svg')"></i>`;
 const esc=v=>String(v??'').replace(/[&<>"']/g,c=>({'&':'&amp;','<':'&lt;','>':'&gt;','"':'&quot;',"'":'&#39;'}[c]));
-const paths=[['/research','个人研究台','layers','研究台'],['/data-health','数据健康中心','layers','健康'],['/compare','双对象比较','layers','比较'],['/stocks','个股研究','chart-candlestick','研究'],['/','市场行情','chart-no-axes-combined','行情'],['/technical','技术与共振','layers','技术'],['/strategy','策略验证','flask-conical','验证'],['/static/research/index.html','相关性档案','layers','档案']];
+const paths=[['/research','个人研究台','layers','研究台'],['/data-health','数据健康中心','layers','健康'],['/compare','板块与组合比较','layers','比较'],['/stocks','个股研究','chart-candlestick','研究'],['/','市场行情','chart-no-axes-combined','行情'],['/technical','技术与共振','layers','技术'],['/strategy','策略验证','flask-conical','验证'],['/static/research/index.html','相关性档案','layers','档案']];
 const active=paths.find(p=>p[0]===location.pathname)||paths[0];document.body.classList.add('terminal-app');document.body.dataset.workspace=active[3];
 const nav=document.createElement('aside');nav.className='terminal-sidebar';nav.id='terminal-sidebar';nav.innerHTML=`<a class="terminal-brand" href="/stocks"><span class="brand-mark">观</span><span>观澜<small>金融研究工作台</small></span></a><div class="nav-label">工作空间</div><nav aria-label="主导航">${paths.map(([href,label,name])=>`<a href="${href}" ${href===active[0]?'aria-current="page"':''}>${icon(name)}<span>${label}</span></a>`).join('')}</nav><div class="sidebar-guide"><span class="guide-line"></span><b>从价格，到证据</b><p>行情观察、技术研究和策略检验，在同一个工作空间。</p></div><div class="sidebar-footer"><span class="connection-dot"></span><span>${document.querySelector('script[src="/cloud-ui.js"]')?'私有云端工作区':'本地研究工作区'}<small>数据日期以各报告为准</small></span></div>`;
 const header=document.createElement('header');header.className='terminal-header';header.innerHTML=`<button class="icon-button mobile-menu" aria-label="展开导航" aria-expanded="false" aria-controls="terminal-sidebar">${icon('menu')}</button><div class="terminal-breadcrumb">工作空间 <span>/</span> <b>${active[1]}</b></div><div class="global-search"><label for="global-security-query" class="visually-hidden">搜索证券名称或代码</label>${icon('search')}<input id="global-security-query" placeholder="搜索股票、ETF或代码" autocomplete="off" role="combobox" aria-controls="global-search-results" aria-expanded="false"><kbd>⌘ K</kbd><div id="global-search-results" role="listbox" hidden></div></div><nav class="terminal-tools" aria-label="账户与外观"><button id="terminal-theme" class="icon-button" aria-label="切换浅色模式">${icon('sun')}</button></nav>`;

diff --git a/design/compare-v2/README.md b/design/compare-v2/README.md
@@ -1,0 +1,24 @@
+# 关联研究页面 / 2026-11-14
+
+## GitHub 方案调研
+
+- https://github.com/tremorlabs/tremor ：Apache-2.0，分析组件的层次、图例和明确的数据状态。
+- https://github.com/tremorlabs/template-dashboard-oss ：Apache-2.0，紧凑筛选区域与主分析画布。
+- https://github.com/shadcn-ui/ui ：MIT，统一表单、焦点反馈、可展开细节的交互。
+- https://github.com/apache/echarts ：交互图表方案。本轮保留原有轻量SVG，增加日期读数与键盘滑块；尚未引入ECharts依赖。
+
+以上借鉴信息架构和交互原则，本轮未复制项目组件代码，也未迁移到React或Next.js；无外部CDN、字体或运行时依赖。
+
+## 设计规范
+
+操作型金融研究工作台，精细、克制。保留已发布theme.css色彩及中文字体token：石墨底、蓝色A、金色B；兼容浅色主题。内容上限1440px，760/1150断点，4px间距体系。沿用原生CSS以维持现有技术栈，不新增Tailwind构建依赖。
+
+顺序：选择对象 → 一句话结论 → 相关系数刻度与窗口冲突 → 走势/日期读数 → 滚动相关性/散点 → 折叠指标证据。定义是描述性的，不是交易推荐；同对象、常数收益、缺失、过期、旧缓存必须给出对应判断。
+
+新增煤炭×元件、银行×元件快捷组合，交换A/B，区间按钮，加载状态，首次访问说明。相关系数优先于不便跨波动率比较的协方差，原协方差、矩阵、下载、方法与原始证据保持可访问。
+
+## 验证
+
+本地与云端真实数据浏览器验证通过：快捷组合、A/B交换、区间按钮、结论、冲突提示、键盘日期滑块、展开证据、深浅主题、390/760/1024/1440四种宽度、修改选择使旧结果失效、模拟502后恢复可操作状态。煤炭×元件、银行×元件、五年、同板块及下载仍通过原回归。公共导航在个股研究和个人研究台完成冒烟检查。云端部署为guanlan-api HTTP函数，登录和数据接口保持原边界。
+
+首次访问默认浅色，保留用户已保存的主题偏好。手机SVG坐标标签单独放大。浏览器截图为真实数据，不是设计假数据。
